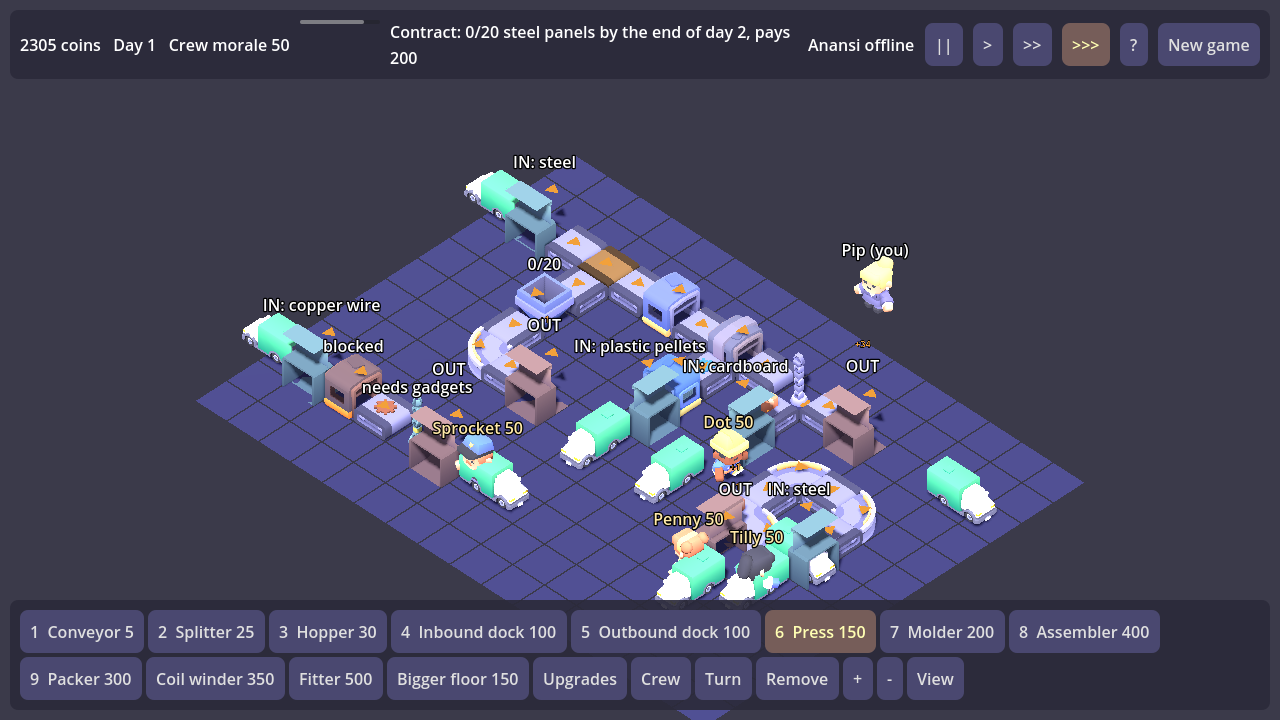
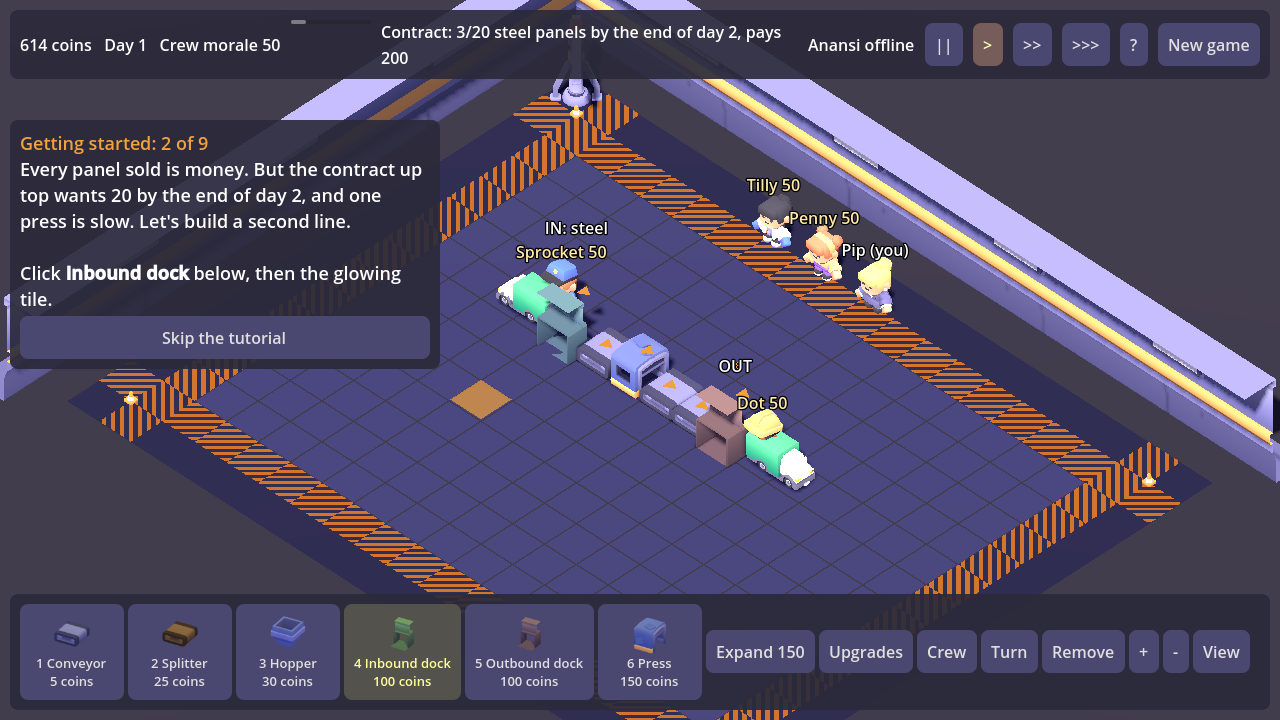
Hoppertunity: picture cards on the build bar, a portrait in the talk panel, the introduction in the tutorial, a single shadow map

diff --git a/examples/hoppertunity/README.md b/examples/hoppertunity/README.md
@@ -28,8 +28,10 @@ floor manager of the Hopper Works, a small gadget plant on its last chance.
   spare cash somewhere to go.
 - **Crew sheet:** the Crew button lists everyone's morale, what that does to their work, pay, errands done and how far
   their story has got.
-- **Tutorial:** eight steps walk a new manager from the first dock to the first errand, pulsing the button to press.
-  It can be skipped, and a saved game remembers where you were.
+- **A start that shows the game:** a new game opens inside the factory building on a small line that is already
+  running. Nine tutorial steps then walk the new manager through building a second line beside it, one piece at a
+  time, with the build button pulsing and the exact floor tile glowing, and on to talking to the crew and a first
+  errand. It can be skipped, and a saved game remembers where you were.
 - **Trouble shows:** a machine that is jammed, blocked or short of an input says so above it. Whoever or whatever the
   current errand step wants is marked in orange.
 - **The crew:** Dot (docks), Sprocket (machines), Tilly (packing and quality) and Penny (sales) walk between the

diff --git a/examples/hoppertunity/assets/LICENSE.md b/examples/hoppertunity/assets/LICENSE.md
@@ -12,3 +12,4 @@ free to use, change and share, also commercially, with no credit required.
 | `audio/music.mp3` | CC0 | "Bossa Nova" (file "8bit Bossa") by Joth, unchanged. Downloaded from https://opengameart.org/content/bossa-nova |
 | `audio/*.ogg` | CC0 | "Interface Sounds" 1.0 by Kenney, eleven of the sounds, renamed for what they are used for. Downloaded from https://opengameart.org/content/interface-sounds |
 | `vehicles/*` | CC0 | "Car Kit" 3.1 by Kenney, the delivery van, unchanged. Downloaded from https://opengameart.org/content/car-kit |
+| `icons/*` | CC0 | The preview pictures that come with Kenney's Factory Kit and Mini Characters, converted to RGBA, for the build buttons and the talk panel |
